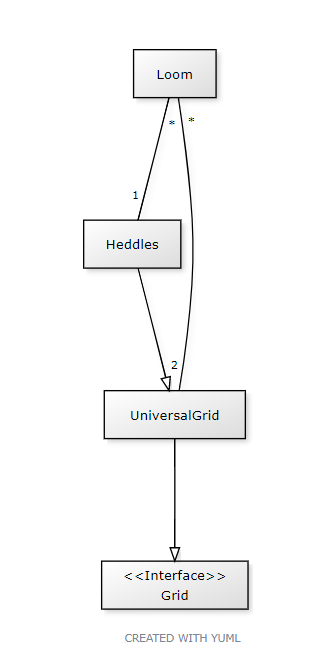
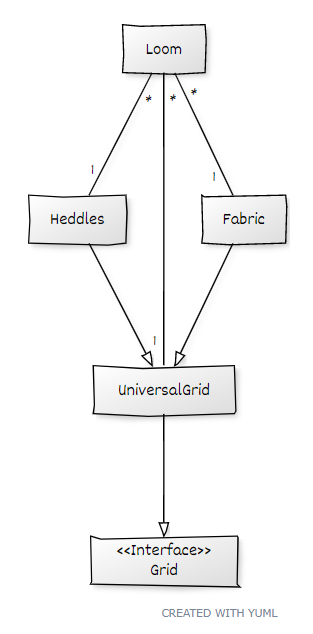
luokkakaaviota muutettu ja uusi luokka luotu

diff --git a/kudontasovellus/src/main/java/emmakamutta/domain/Loom.java b/kudontasovellus/src/main/java/emmakamutta/domain/Loom.java
@@ -1,16 +1,19 @@
-
 package emmakamutta.domain;
+
+import java.util.*;
 
 /**
  * Kangaspuita kuvaava luokka
  */
 public class Loom {
+
     int shafts;           //niisivarsien lkm;
     int treadleAmount;    //polkusten lkm;
     int length;
     Grid heddles;
     Grid treadles;
-    Grid fabric;
+    Fabric fabric;
+    HashMap<Integer, int[]> weaveTreadles;
 
     public Loom() {
         this.shafts = 4;
@@ -18,16 +21,18 @@ public class Loom {
         this.length = 10;      //HUOM!!! nyt 10 - onko tämä lopullinen oletusarvo?
         this.heddles = new Heddles(shafts, length);
         this.treadles = new UniversalGrid(shafts, treadleAmount);
-        this.fabric = new UniversalGrid(length, length);
+        this.fabric = new Fabric(length, length);
+        this.weaveTreadles = new HashMap<>();
     }
 
     public Loom(int shafts, int treadleamount) {
         this.shafts = shafts;
         this.treadleAmount = treadleamount;
-        this.length = 10; 
-        this.heddles = new UniversalGrid(shafts, length);
+        this.length = 10;
+        this.heddles = new Heddles(shafts, length);
         this.treadles = new UniversalGrid(shafts, treadleamount);
-        this.fabric = new UniversalGrid(length, length);
+        this.fabric = new Fabric(length, length);
+        this.weaveTreadles = new HashMap<>();
     }
 
     public Loom(Heddles heddles, Grid treadles) {
@@ -36,18 +41,26 @@ public class Loom {
         this.shafts = heddles.getColumn(0).length;
         this.length = heddles.getRow(0).length;
         this.treadleAmount = treadles.getRow(0).length;
-        this.fabric = this.fabric = new UniversalGrid(length, length);
+        this.fabric = new Fabric(length, length);
+        this.weaveTreadles = new HashMap<>();
     }
-    
-    
-    
-    public int[] weave(int treadle) {
+
+    public void weave(int treadle) {
         if (treadle >= treadleAmount || treadle < 0) {
             throw new IllegalArgumentException("Polkusta ei ole olemassa");
-        }  
+        }
+        if (!weaveTreadles.containsKey(treadle)) {
+            weaveTreadles.put(treadle, getWeavedRow(treadle));
+        }
+        int[] row = weaveTreadles.get(treadle);
+        fabric.weaveRow(row);
+    }
+
+    public int[] getWeavedRow(int treadle) {
+        
         int[] bounded = treadles.getColumn(treadle);
         int[] weavedRow = new int[length];
-        
+
         for (int i = 0; i < shafts; i++) {
             if (bounded[i] == 0) {
                 continue;
@@ -66,7 +79,5 @@ public class Loom {
     public String toString() {
         return "Design{" + "shafts=" + shafts + ", treadleamount=" + treadleAmount + ", length=" + length + ", heddles=" + heddles + ", treadles=" + treadles + ", grid=" + fabric + '}';
     }
-    
-    
-    
+
 }

diff --git a/kudontasovellus/src/main/java/emmakamutta/Main.java b/kudontasovellus/src/main/java/emmakamutta/Main.java
@@ -1,54 +1,21 @@
 package emmakamutta;
 
 
-import emmakamutta.domain.UniversalGrid;
-import emmakamutta.domain.Loom;
-import emmakamutta.domain.Heddles;
-import emmakamutta.domain.Grid;
+import emmakamutta.domain.*;
 
 
 
 public class Main {
     public static void main(String[] args) {
-        Loom design = new Loom();
-        System.out.println(design);
-
-        System.out.println("-------");
-        int[][] apu = {{0,0,1,0},
-                       {0,1,0,0},
-                       {0,0,0,1},
-                       {1,0,0,0}};
-        Grid test = new UniversalGrid(apu);
-        int[] column = test.getColumn(0);
-        for (int i = 0; i < column.length; i++) {
-            System.out.println(column[i]);
-        }
-        System.out.println("-------");
-        System.out.println("kokeillaan kudontaa: poljetaan 1. poljinta");
-       
-        Heddles heddles = new Heddles(apu);
-        Grid treadles = new UniversalGrid(apu);
-        Loom design2 = new Loom(heddles, treadles);
-        int[] fabric = design2.weave(0);
-        String s = "";
-        for (int i = 0; i < fabric.length; i++) {
-            s += fabric[i];
-        }
-        System.out.println(s);
-        
-        System.out.println("----------");
-
-        
-        int[][] ex = {{0,0,0,1},
-                      {0,0,1,0},
-                      {1,0,0,0},
-                      {0,1,0,0}};
-        Heddles hed = new Heddles(ex);      
-        int[] row3 = hed.getRow(3);
-        s = "";
-        for (int i = 0; i < row3.length; i++) {
-            s += row3[i];
-        }
-        System.out.println(s);
+      
+        System.out.println("-----");
+        Fabric fabric = new Fabric(4,5);
+        System.out.println(fabric.weavedRows);
+        int[] apu = {1,1,1,1,1};
+        fabric.weaveRow(apu);
+        System.out.println(fabric);
+        fabric.weaveRow(apu);
+        System.out.println(fabric);
+        System.out.println(fabric.weavedRows);
     }
 }

diff --git a/kudontasovellus/src/test/java/domain/FabricTest.java b/kudontasovellus/src/test/java/domain/FabricTest.java
@@ -1,0 +1,35 @@
+
+package domain;
+
+import emmakamutta.domain.Fabric;
+import org.junit.After;
+import org.junit.AfterClass;
+import org.junit.Assert;
+import org.junit.Before;
+import org.junit.BeforeClass;
+import org.junit.Test;
+import static org.junit.Assert.*;
+
+/**
+ *
+ * 
+ */
+public class FabricTest {
+    Fabric fabric;
+    
+    public FabricTest() {
+    }
+    
+    @Before
+    public void setUp() {
+        this.fabric = new Fabric(4,5);
+    }
+    
+    @Test
+    public void weaveRowWeavesCorrectRow() {
+        int[] ex = {1,1,1,1,1};
+        fabric.weaveRow(ex);
+        
+        Assert.assertArrayEquals(ex, fabric.grid[0]);
+    }
+}

diff --git a/kudontasovellus/src/main/java/emmakamutta/domain/Fabric.java b/kudontasovellus/src/main/java/emmakamutta/domain/Fabric.java
@@ -1,0 +1,26 @@
+package emmakamutta.domain;
+
+/**
+ *
+ * Tämä luokka kuvaa kudottua kangasta
+ */
+public class Fabric extends UniversalGrid {
+
+    public int weavedRows;
+
+    public Fabric(int length, int width) {
+        super(length, width);
+        this.weavedRows = 0;
+    }
+
+    public Fabric(int[][] grid) {
+        super(grid);
+        this.weavedRows = 0;
+    }
+
+    public void weaveRow(int[] row) {
+        this.grid[weavedRows] = row;
+        weavedRows++;
+    }
+
+}
